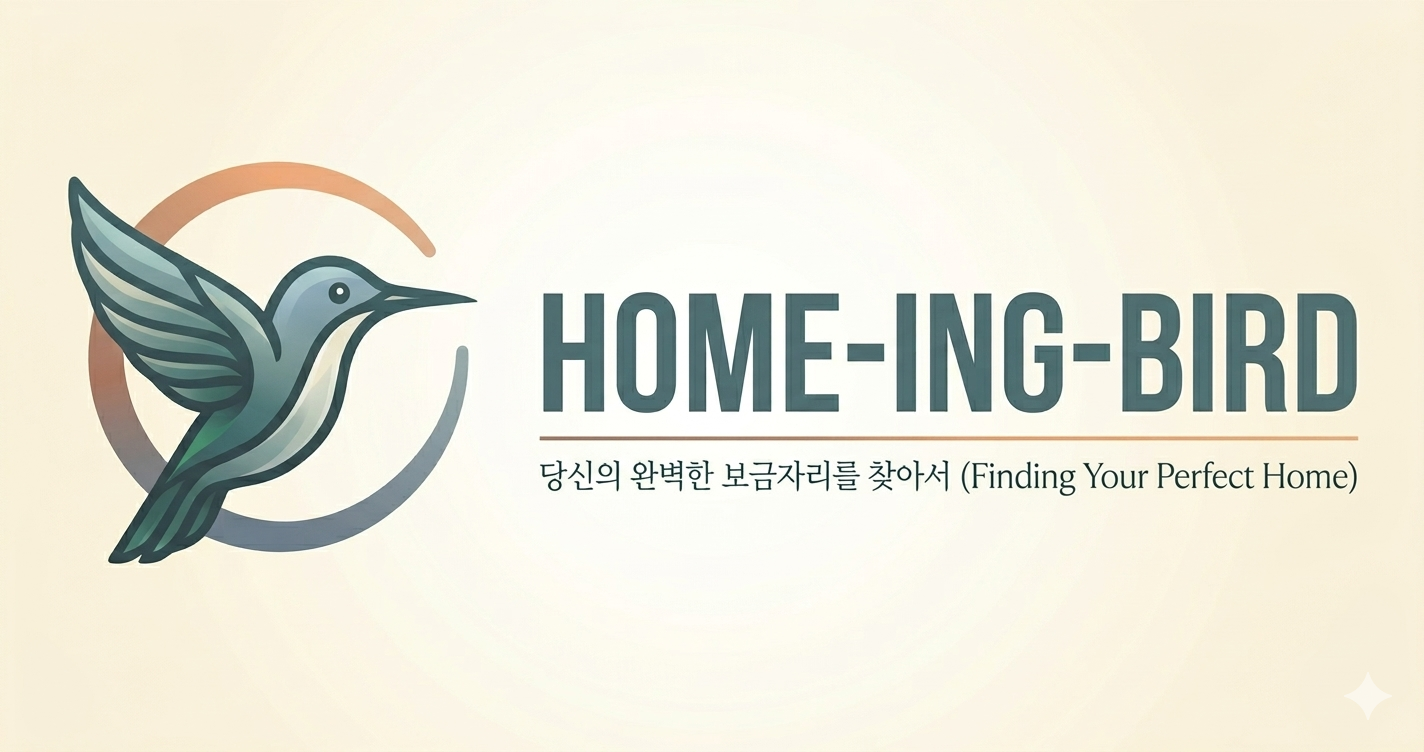
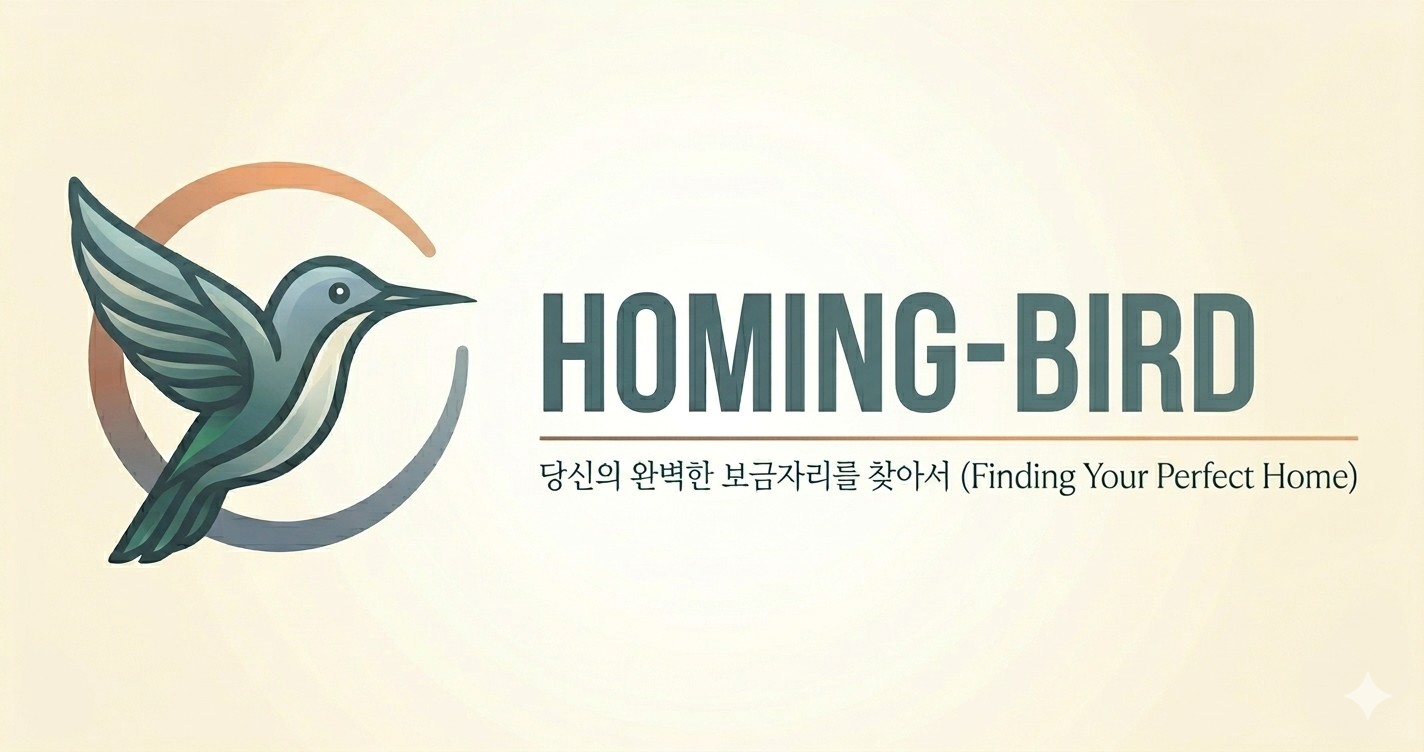
refactor: 브랜딩 명칭 HOMING-BIRD로 통일 및 OG 이미지 갱신

Changed region(s): [[0.5562, 0.367, 0.9579, 0.5505]]

diff --git a/app/layout.tsx b/app/layout.tsx
@@ -1,52 +1,58 @@
-import type { Metadata } from 'next';
-import { DM_Serif_Display } from 'next/font/google';
-import './globals.css';
-import Header from '@/components/Header';
+import type { Metadata } from "next";
+import { DM_Serif_Display } from "next/font/google";
+import "./globals.css";
+import Header from "@/components/Header";
 
 const dmSerif = DM_Serif_Display({
-  weight: '400',
-  subsets: ['latin'],
-  variable: '--font-display',
-  display: 'swap',
+  weight: "400",
+  subsets: ["latin"],
+  variable: "--font-display",
+  display: "swap",
 });
 
-const siteUrl = process.env.NEXT_PUBLIC_SITE_URL ?? 'https://homing-bird.vercel.app';
+const siteUrl =
+  process.env.NEXT_PUBLIC_SITE_URL ?? "https://homing-bird.vercel.app";
 
 export const metadata: Metadata = {
-  title: '홈 잉 버드 | 부린이를 위한 검색 학습 엔진',
-  description: '부동산 용어를 검색하고, 비유로 이해하고, 연관 개념으로 이어서 학습하세요.',
-  keywords: ['부동산', '용어사전', '전세', 'LTV', '재개발', '청약', '부린이'],
+  title: "홈 잉 버드 | 부린이를 위한 검색 학습 엔진",
+  description:
+    "부동산 용어를 검색하고, 비유로 이해하고, 연관 개념으로 이어서 학습하세요.",
+  keywords: ["부동산", "용어사전", "전세", "LTV", "재개발", "청약", "부린이"],
   metadataBase: new URL(siteUrl),
   openGraph: {
     url: siteUrl,
-    siteName: 'HOME-ING-BIRD',
-    title: 'HOME-ING-BIRD | 부린이를 위한 검색 학습 엔진',
-    description: '비유를 통해 쉽게 배우는 AI 부동산 튜터',
+    siteName: "HOMING-BIRD",
+    title: "HOMING-BIRD | 부린이를 위한 검색 학습 엔진",
+    description: "비유를 통해 쉽게 배우는 AI 부동산 튜터",
     images: [
       {
-        url: '/op.png',
+        url: "/op.png",
         width: 1200,
         height: 630,
-        alt: '부동버드 | 초보자를 위한 검증된 용어 사전',
+        alt: "부동버드 | 초보자를 위한 검증된 용어 사전",
       },
     ],
   },
   twitter: {
-    card: 'summary_large_image',
-    title: 'HOME-ING-BIRD | 부린이를 위한 검색 학습 엔진',
-    description: '비유를 통해 쉽게 배우는 AI 부동산 튜터',
-    images: ['/op.png'],
+    card: "summary_large_image",
+    title: "HOMING-BIRD | 부린이를 위한 검색 학습 엔진",
+    description: "비유를 통해 쉽게 배우는 AI 부동산 튜터",
+    images: ["/op.png"],
   },
   icons: {
     icon: [
-      { url: '/icon16.png', sizes: '16x16', type: 'image/png' },
-      { url: '/icon48.png', sizes: '48x48', type: 'image/png' },
-      { url: '/icon128.png', sizes: '128x128', type: 'image/png' },
+      { url: "/icon16.png", sizes: "16x16", type: "image/png" },
+      { url: "/icon48.png", sizes: "48x48", type: "image/png" },
+      { url: "/icon128.png", sizes: "128x128", type: "image/png" },
     ],
   },
 };
 
-export default function RootLayout({ children }: { children: React.ReactNode }) {
+export default function RootLayout({
+  children,
+}: {
+  children: React.ReactNode;
+}) {
   return (
     <html lang="ko" className={dmSerif.variable}>
       <head>
@@ -57,9 +63,11 @@ export default function RootLayout({ children }: { children: React.ReactNode }) 
       </head>
       <body className="bg-[#0d0d0d] text-[#f0ece4] min-h-dvh font-sans">
         <Header />
-        <main className="min-h-[calc(100dvh-52px)] sm:min-h-[calc(100dvh-60px)]">{children}</main>
+        <main className="min-h-[calc(100dvh-52px)] sm:min-h-[calc(100dvh-60px)]">
+          {children}
+        </main>
         <footer className="border-t border-white/[0.07] py-6 sm:py-8 text-center text-[11px] sm:text-xs text-[#4a4640] px-4">
-          © 2026 HOME-ING-BIRD · 초보자를 위한 검색 기반 학습 엔진
+          © 2026 HOMING-BIRD · 초보자를 위한 검색 기반 학습 엔진
         </footer>
       </body>
     </html>

diff --git a/app/page.tsx b/app/page.tsx
@@ -35,7 +35,7 @@ export default function HomePage() {
               priority
             />
             <span className="text-[1rem] sm:text-lg md:text-xl font-semibold tracking-[0.3em] text-[#f6ebd4] uppercase">
-              HOME-ING-BIRD
+              HOMING-BIRD
             </span>
             <p className="text-xs sm:text-sm text-[#8a8276] font-sans">
               비유를 통해 쉽게 이해하는 AI 부동산 튜터
